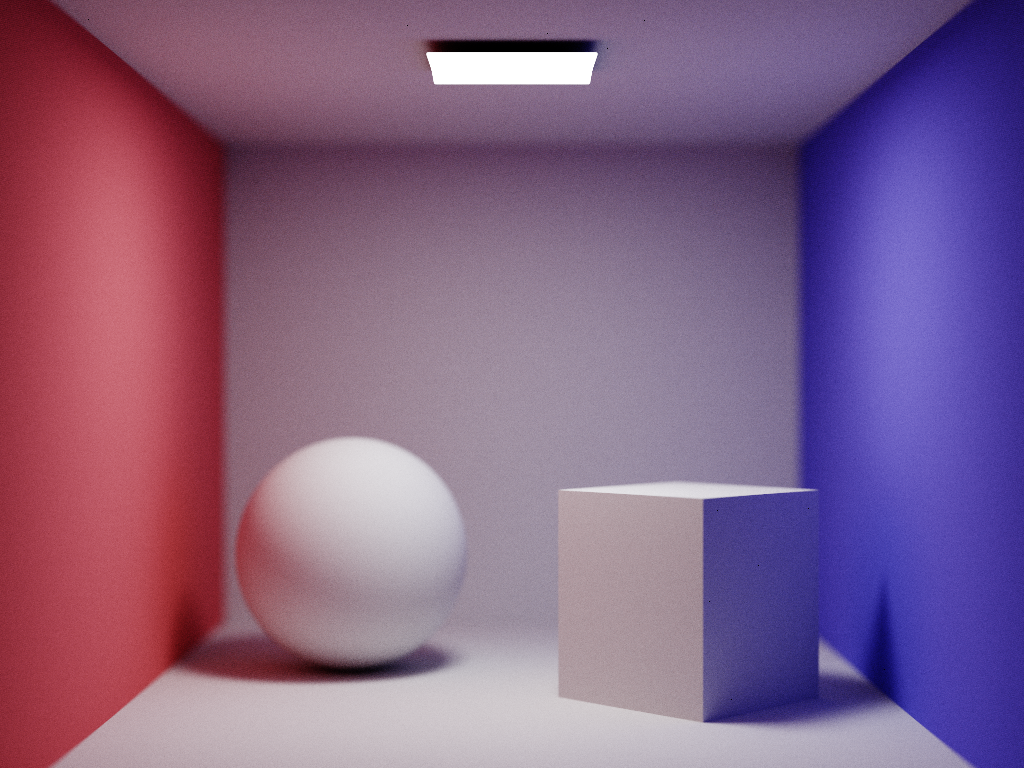
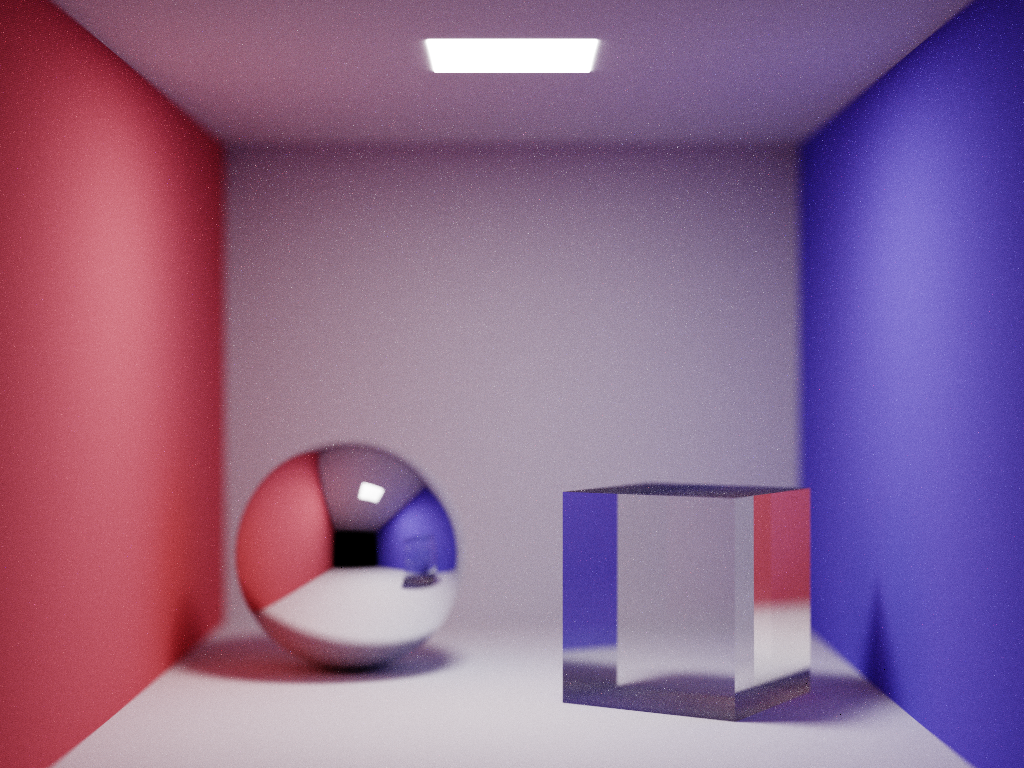
update sample image

diff --git a/README.md b/README.md
@@ -9,11 +9,13 @@ Barnacle is a toy renderer written in F# as part of UCSB 2025W CS263 course proj
 ## Roadmap
 
 Although this renderer is not designed for actual real-time rendering, we would still like to implement some real-time rendering techniques. Here are the features we plan to implement:
-- [x] Path-traced DI & GI
 - [x] Support triangle mesh
 - [x] Use BVH for acceleration
-- [ ] Support simple PBR material
-- [ ] Scene I/O
-- [x] Image output via [ImageSharp](https://github.com/SixLabors/ImageSharp)
-- [ ] ReSTIR DI
+- [x] Support Lambertian, Mirror, Dielectric materials
+- [ ] Support Microfacet material
+- [x] Path-traced DI & GI
 - [x] Primary Sample Space Metropolis Light Transport
+- [ ] ReSTIR DI
+- [x] Load scene from JSON file
+- [x] Image output using [ImageSharp](https://github.com/SixLabors/ImageSharp)
+- [ ] Animation output as GIF
